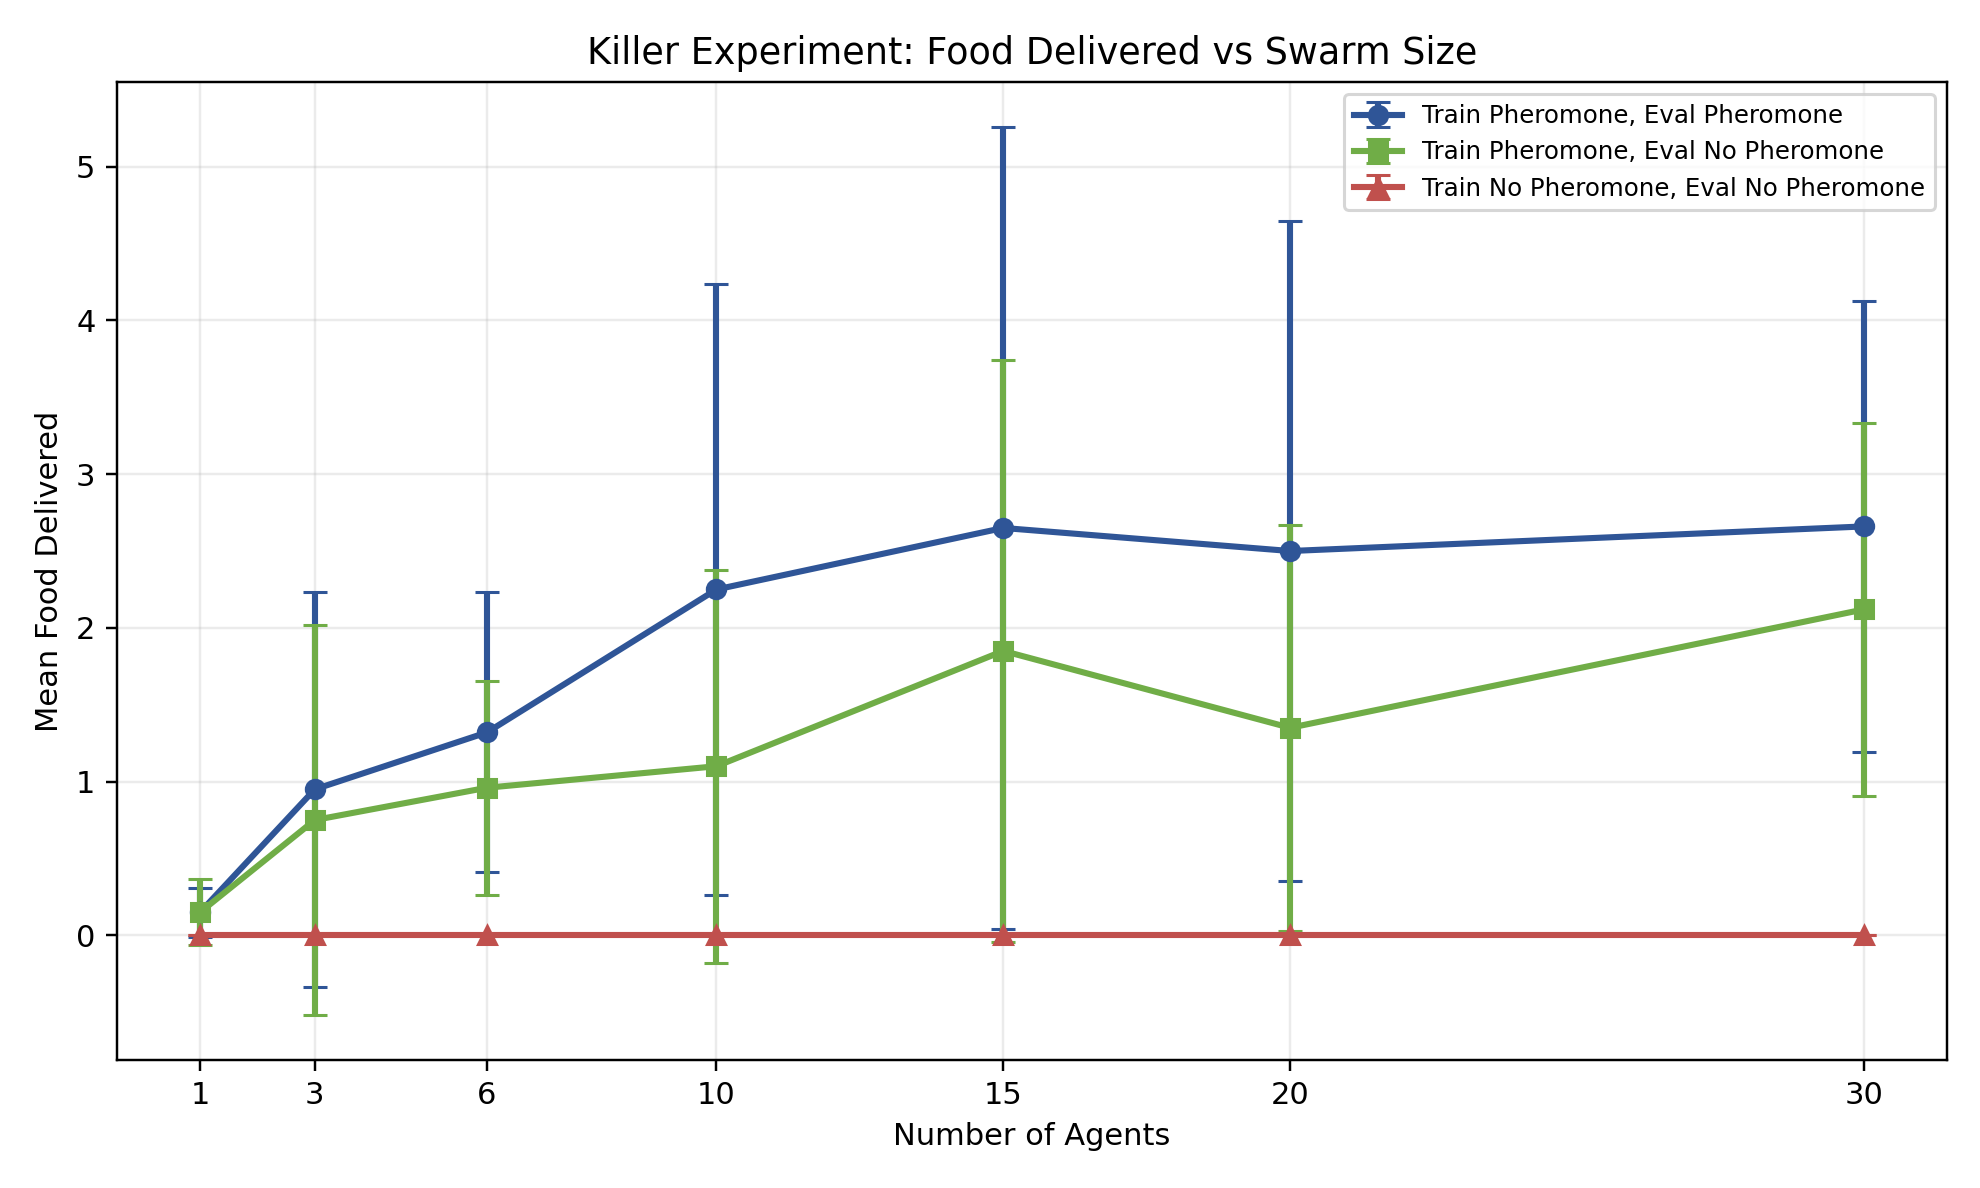
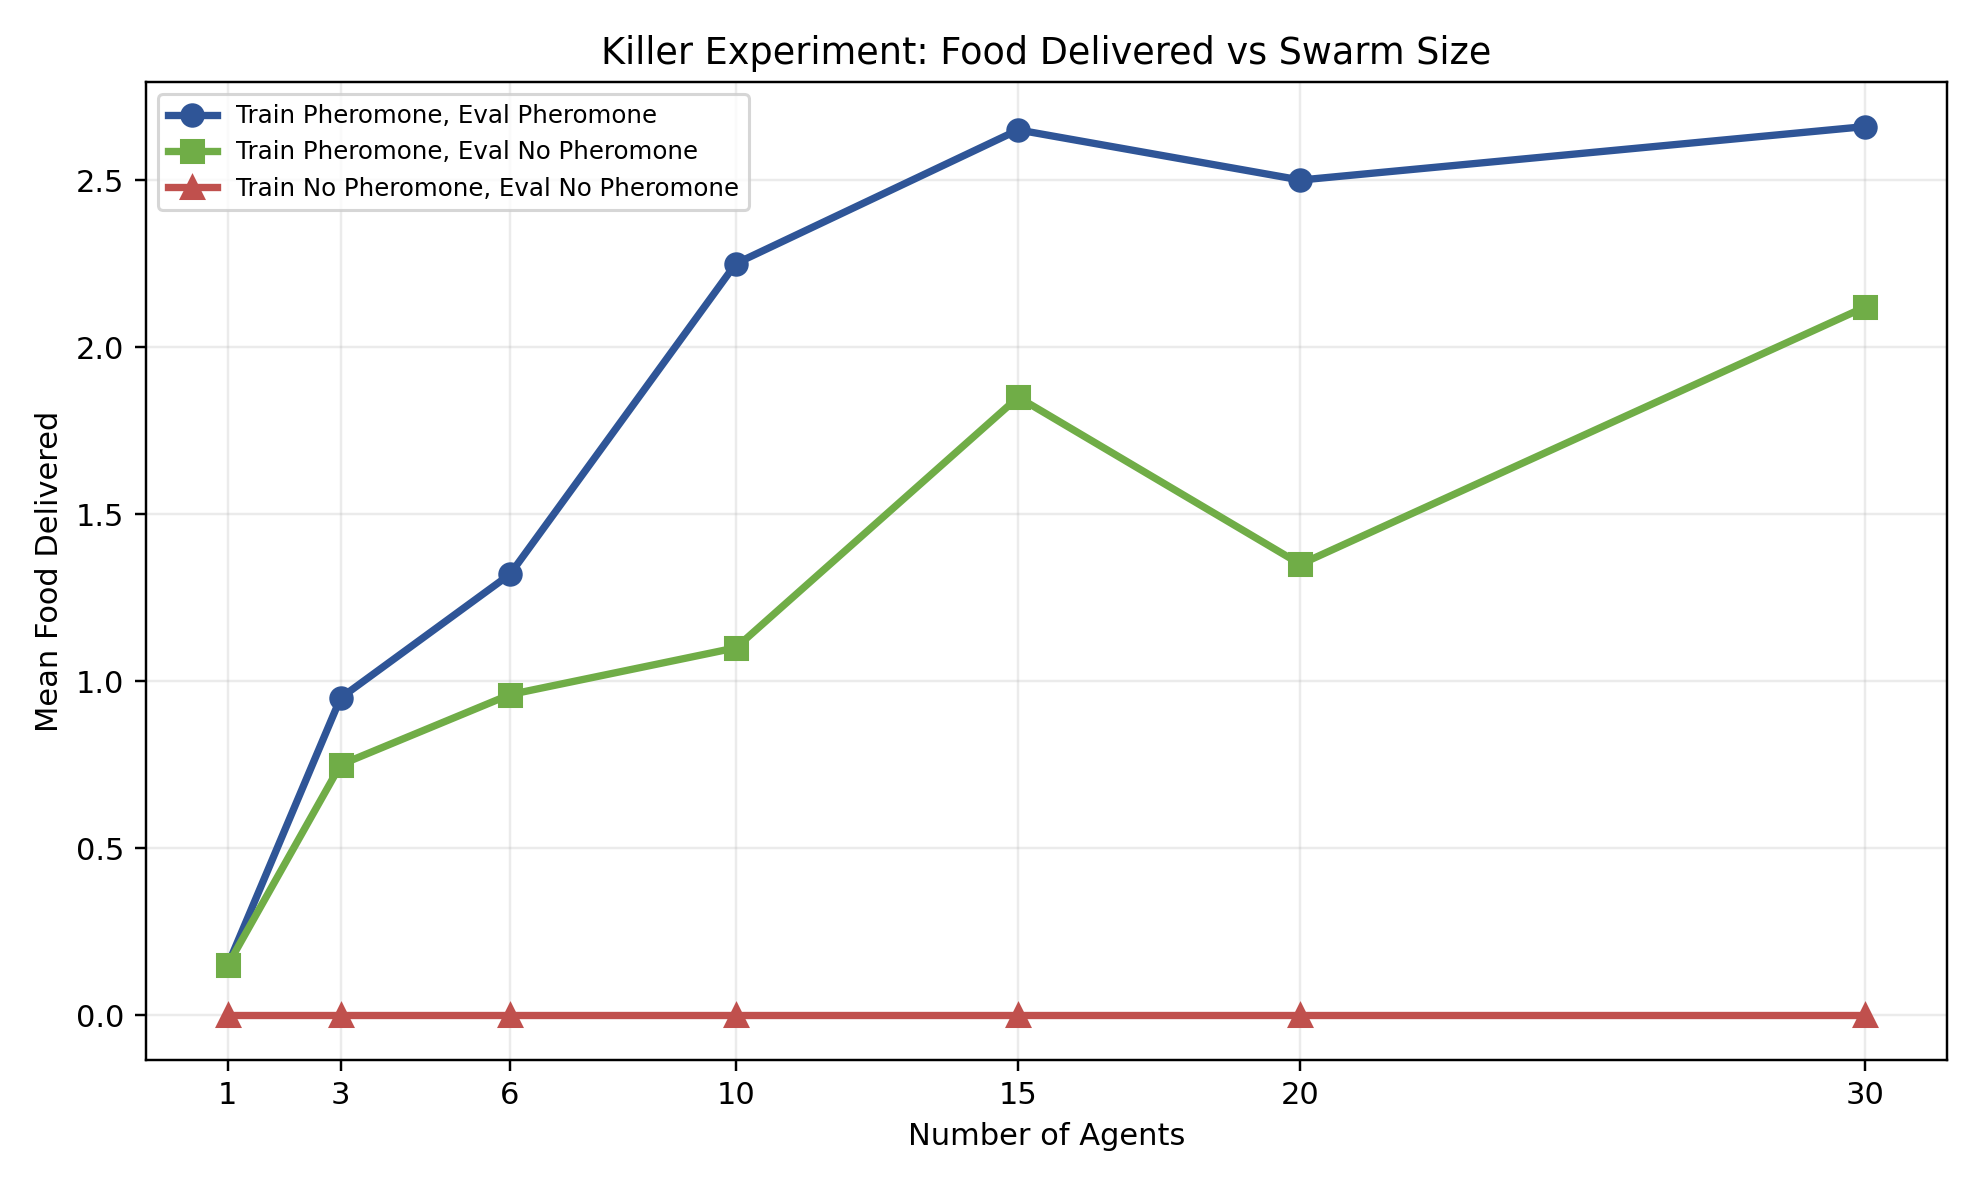
update

diff --git a/docs/QandA.md b/docs/QandA.md
@@ -1123,3 +1123,9 @@ A: Yes. Additional line-style baseline figures were generated from the saved `20
 
 ## Q: Can the `102744` killer experiment be visualized as a line graph with number of agents on the x-axis and performance on the y-axis for multiple pheromone conditions?
 A: Yes. Line graphs were generated from `docs/gvrsf2026/experiments/20260406_102744/killer_scaling/raw_exports/all_episode_results.csv` and saved under `docs/cwsf2026/opb/what/stigmergy_scaling`. The main requested plot is `killer_food_delivered_line_by_condition.png`, which shows mean food delivered versus swarm size for the three killer conditions on the same graph. A companion `killer_late_deliveries_line_by_condition.png` was also generated.
+
+## Q: What are the vertical bars at each data point on the generated line graphs?
+A: They are error bars showing the 95% confidence interval around the mean at that data point. For each condition and swarm size, the plotted point is the sample mean across the saved episodes/seeds, and the vertical bar shows an estimate of uncertainty in that mean. Narrower bars mean the estimate was more stable across seeds; wider bars mean more variability.
+
+## Q: Can the generated killer line graphs be shown without confidence-interval bars?
+A: Yes. The `docs/cwsf2026/opb/what/stigmergy_scaling` line graphs were regenerated without confidence-interval error bars, so the current `killer_food_delivered_line_by_condition.png` and `killer_late_deliveries_line_by_condition.png` are plain multi-condition line plots.

diff --git a/docs/PROJECT_LOG.md b/docs/PROJECT_LOG.md
@@ -528,3 +528,5 @@ Use this file to capture decisions, open questions, and next steps so we can res
 - Added a baseline-performance figure set for the CWSF online project board under [docs/cwsf2026/opb/what/baseline_performance](../docs/cwsf2026/opb/what/baseline_performance), copying the existing `102744` baseline figures and generating additional raw-data-based plots for food delivered and delivery conversion.
 - Expanded the CWSF baseline-performance figure set with additional line graphs derived from the `20260406_102744` raw baseline-comparison data, including line-with-CI views for food delivered, delivery conversion, exploration coverage, and a by-episode food-delivered line plot.
 - Added a separate CWSF board figure set for killer stigmergy scaling under [docs/cwsf2026/opb/what/stigmergy_scaling](../docs/cwsf2026/opb/what/stigmergy_scaling), including multi-condition line graphs of food delivered and late deliveries versus number of agents from the `20260406_102744` killer raw data.
+- Added a clarification for the generated line graphs explaining that the vertical bars at each point are 95% confidence-interval error bars around the mean.
+- Regenerated the `docs/cwsf2026/opb/what/stigmergy_scaling` killer line graphs without confidence-interval bars and updated the local README to reflect that the current versions are plain multi-condition line plots.
